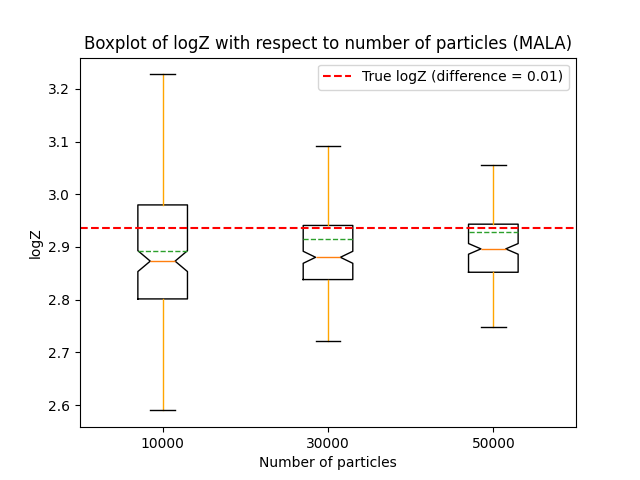
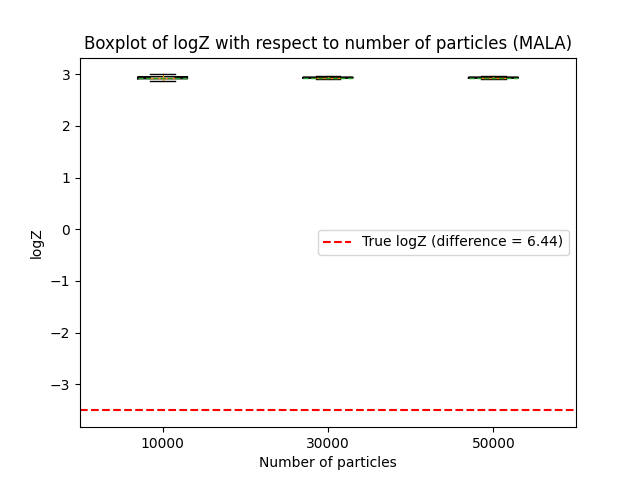
new test

diff --git a/notebooks/sequential_mc/smc_analysis.py b/notebooks/sequential_mc/smc_analysis.py
@@ -154,7 +154,7 @@ coefs = jnp.arange(N+1)/N
 
 # --------------------------- Test With Funnel target ---------------------------
 dim = 2
-mu_0 = jnp.zeros(dim)
+mu_0 = jnp.zeros(dim)-5
 sigma_0 = 10.
 log_var_0 = jnp.log(sigma_0**2)
 log_gamma_0 = IsotropicGauss(mu=mu_0, log_var=log_var_0)
